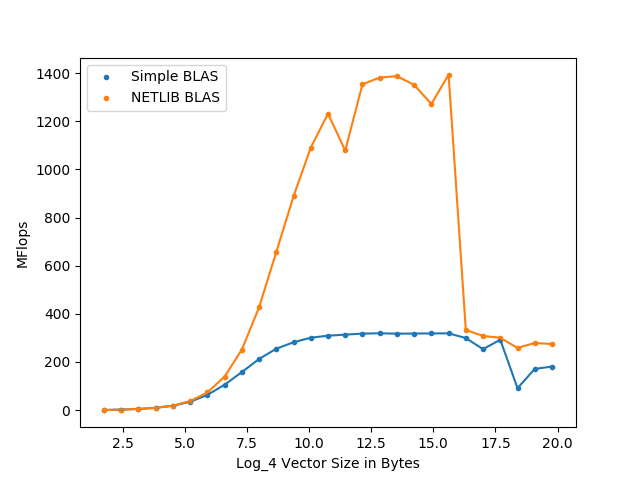
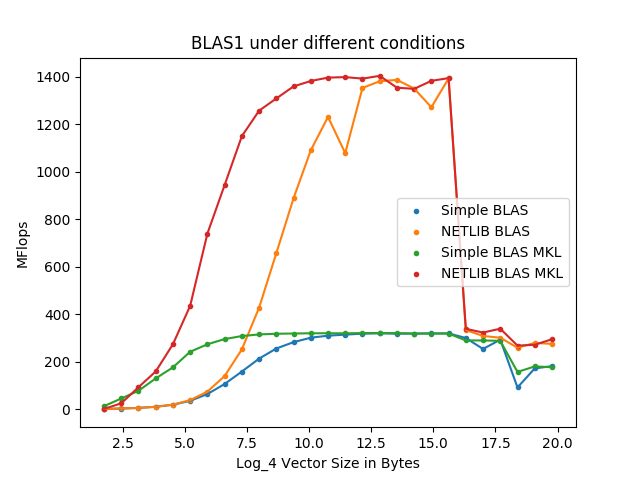
plot

diff --git a/hw1/problem4/data/ploter.py b/hw1/problem4/data/ploter.py
@@ -7,9 +7,15 @@ mytime = pyplot.scatter(np.log(data[1:,0]/np.log(4.)), data[1:,1],marker=".");
 other  = pyplot.scatter(np.log(data[1:,0]/np.log(4.)), data[1:,2],marker=".");
 pyplot.plot(np.log(data[1:,0]/np.log(4.)), data[1:,1]);
 pyplot.plot(np.log(data[1:,0]/np.log(4.)), data[1:,2]);
+datamkl = np.genfromtxt("problem4mkl.txt",delimiter=",");
+mytimemkl = pyplot.scatter(np.log(datamkl[1:,0]/np.log(4.)), datamkl[1:,1],marker=".");
+othermkl  = pyplot.scatter(np.log(datamkl[1:,0]/np.log(4.)), datamkl[1:,2],marker=".");
+pyplot.plot(np.log(datamkl[1:,0]/np.log(4.)), datamkl[1:,1]);
+pyplot.plot(np.log(datamkl[1:,0]/np.log(4.)), datamkl[1:,2]);
 #labels = [1,4,16,256,'1K','4K','16K','64K','256K','1M','4M','16M','64M','256M']
 #pyplot.xticks(np.log(data[1:,0]/np.log(4.)),labels)
 pyplot.xlabel('Log_4 Vector Size in Bytes')
 pyplot.ylabel('MFlops')
-pyplot.legend((mytime,other),('Simple BLAS','NETLIB BLAS'));
+pyplot.legend((mytime,other,mytimemkl,othermkl),('Simple BLAS','NETLIB BLAS','Simple BLAS MKL','NETLIB BLAS MKL'));
+pyplot.title("BLAS1 under different conditions")
 pyplot.savefig('compare.png')
